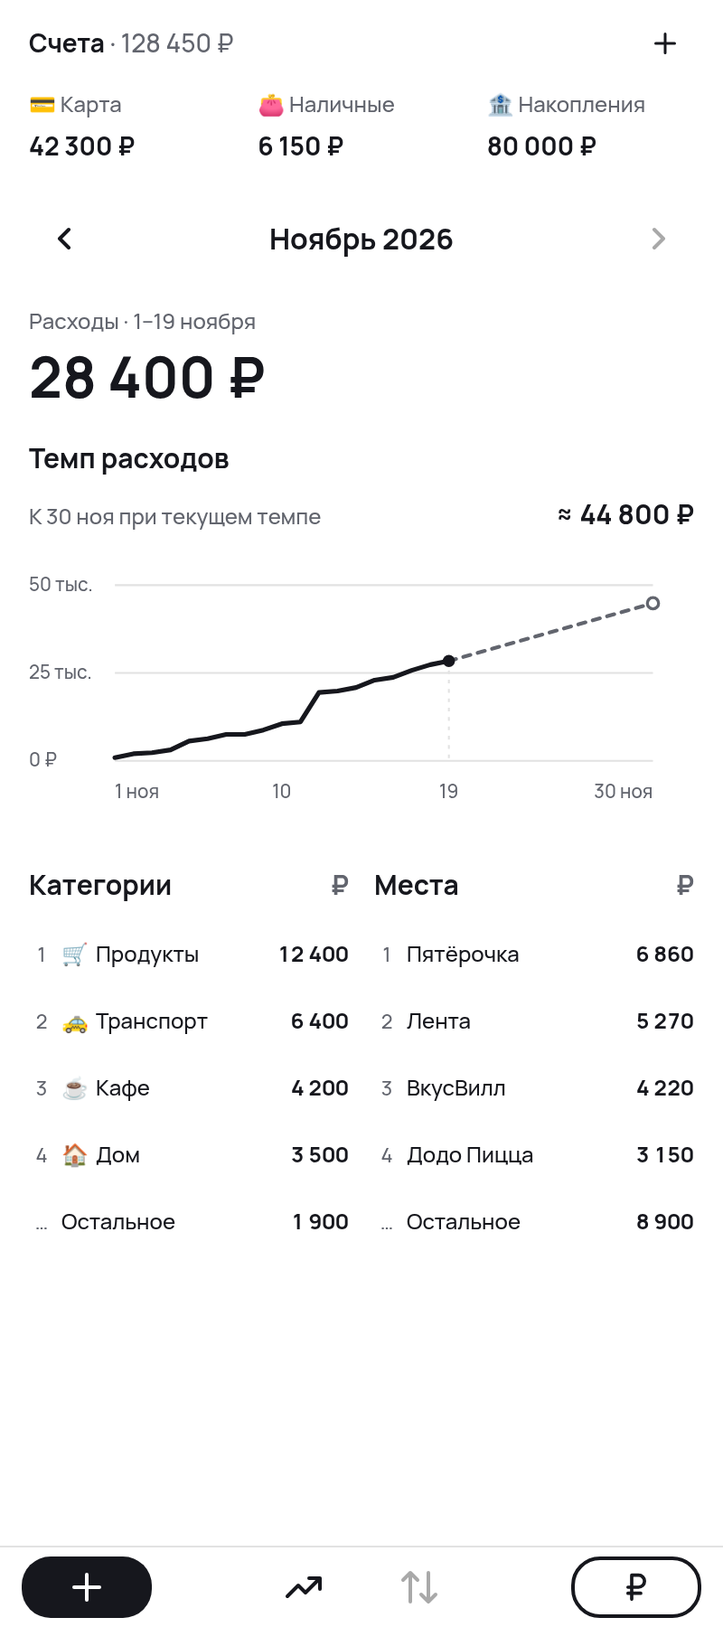
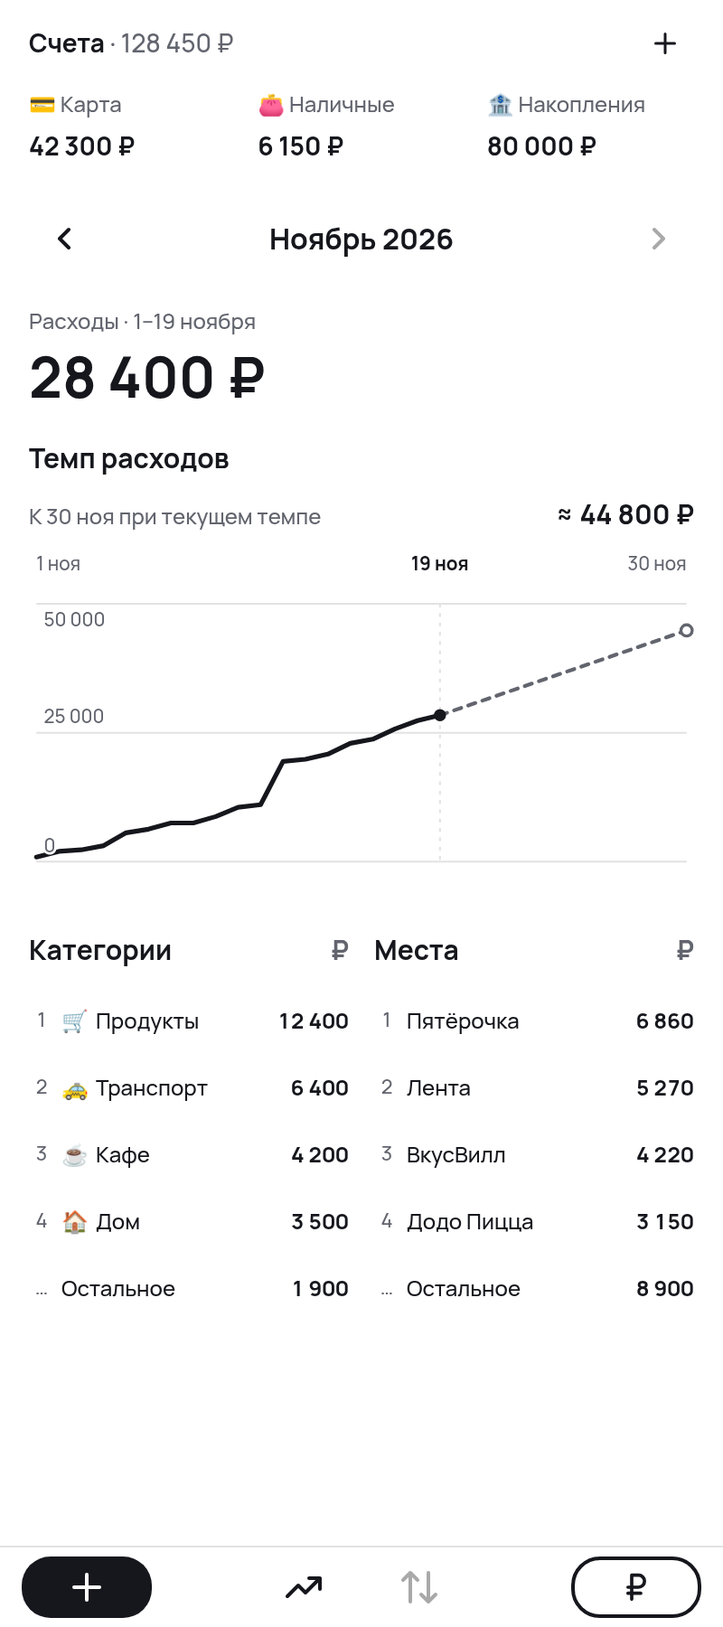
docs: preview adaptive spending chart scales (#267)

diff --git a/design/approved/267/screens.html b/design/approved/267/screens.html
@@ -13,6 +13,7 @@
   section{padding:16px 0}section:last-child{padding-bottom:0}
   .pace svg{display:block;width:100%;height:auto;fill:var(--ink)}.grid,.trend{fill:none;stroke:var(--divider)}
   .pace svg text{fill:var(--muted);font-size:10px}.trend{stroke:var(--ink);stroke-width:2.5;stroke-linecap:round;stroke-linejoin:round}
+  .pace .current-date{fill:var(--ink);font-weight:700}.value-tick{paint-order:stroke;stroke:var(--surface);stroke-width:2.5px}
   .estimate{display:flex;justify-content:space-between;align-items:baseline;gap:8px;margin:0 0 8px;color:var(--muted);font-size:12px}
   .estimate b{color:var(--ink);white-space:nowrap;font-size:15px}
   .forecast{fill:none;stroke:var(--muted);stroke-width:2;stroke-dasharray:4 4;stroke-linecap:round}
@@ -55,12 +56,11 @@
 <div class="screen" id="overview"><div class="month"><span aria-hidden="true">‹</span><h1>Ноябрь 2026</h1><span aria-hidden="true">›</span></div>
 <div class="total"><p>Расходы · 1–19 ноября</p><h2>28 400 ₽</h2></div>
     <section class="pace" data-days="30" data-actual-days="19"><h3>Темп расходов</h3><div class="estimate"><span>К 30 ноя при текущем темпе</span><b>≈ 44 800 ₽</b></div>
-    <svg viewBox="0 0 356 141" role="img" aria-label="С 1 по 19 число потрачено 28 400 ₽. Прогноз на 30 число — около 44 800 ₽.">
-      <path d="M46 114H334 M46 67H334 M46 20H334" class="grid"/><text x="0" y="117">0 ₽</text><text x="0" y="70">25 тыс.</text><text x="0" y="23">50 тыс.</text><line x1="224.76" y1="60.61" x2="224.76" y2="114" class="cutoff"/>
-        <line x1="224.76" y1="60.61" x2="334.00" y2="29.70" class="forecast"/>
-        <circle cx="334.00" cy="29.70" r="3" class="estimate-dot"/>
-      <polyline points="46.00,112.31 55.93,110.24 65.86,109.68 75.79,108.17 85.72,103.47 95.66,102.16 105.59,99.90 115.52,99.90 125.45,97.55 135.38,94.17 145.31,93.23 155.24,77.43 165.17,76.68 175.10,74.80 185.03,70.85 194.97,69.35 204.90,65.59 214.83,62.58 224.76,60.61" class="trend"/>
-      <circle cx="224.76" cy="60.61" r="3.25" class="actual-dot"/><text x="46.00" y="134" text-anchor="start">1 ноя</text><text x="135.38" y="134" text-anchor="middle">10</text><text x="224.76" y="134" text-anchor="middle">19</text><text x="334.00" y="134" text-anchor="end">30 ноя</text>
+    <svg viewBox="0 0 356 176" role="img" aria-label="С 1 по 19 число потрачено 28 400 ₽. Прогноз на 30 число — около 44 800 ₽.">
+      <path d="M4 30H352 M4 99H352 M4 168H352" class="grid"/><line x1="220.00" y1="30" x2="220.00" y2="168" class="cutoff"/><line x1="220.00" y1="89.62" x2="352.00" y2="44.24" class="forecast"/>
+        <circle cx="352.00" cy="44.24" r="3" class="estimate-dot"/>
+      <polyline points="4.00,165.52 16.00,162.48 28.00,161.65 40.00,159.44 52.00,152.54 64.00,150.61 76.00,147.30 88.00,147.30 100.00,143.85 112.00,138.88 124.00,137.50 136.00,114.32 148.00,113.21 160.00,110.45 172.00,104.66 184.00,102.45 196.00,96.93 208.00,92.51 220.00,89.62" class="trend"/>
+      <circle cx="220.00" cy="89.62" r="3.25" class="actual-dot"/><text class="value-tick" x="8" y="42">50 000</text><text class="value-tick" x="8" y="94">25 000</text><text class="value-tick" x="8" y="163">0</text><text class="date-tick" x="4.00" y="12" text-anchor="start">1 ноя</text><text class="current-date" x="220.00" y="12" text-anchor="middle">19 ноя</text><text class="date-tick" x="352.00" y="12" text-anchor="end">30 ноя</text>
     </svg></section><section class="rankings" aria-label="Распределение расходов за месяц">
       <div class="tables">
         <table class="categories">
@@ -86,10 +86,23 @@
       </div>
     </section></div>
 <div class="screen small" id="completed"><section class="pace" data-days="31" data-actual-days="31"><h3>Темп расходов</h3>
-    <svg viewBox="0 0 356 141" role="img" aria-label="С 1 по 31 число потрачено 36 200 ₽.">
-      <path d="M46 114H334 M46 67H334 M46 20H334" class="grid"/><text x="0" y="117">0 ₽</text><text x="0" y="70">20 тыс.</text><text x="0" y="23">40 тыс.</text>
-      <polyline points="46.00,111.89 55.60,109.30 65.20,108.59 74.80,106.72 84.40,100.84 94.00,99.19 103.60,96.38 113.20,96.38 122.80,93.44 132.40,89.21 142.00,88.03 151.60,68.29 161.20,67.35 170.80,65.00 180.40,60.07 190.00,58.19 199.60,53.49 209.20,49.73 218.80,47.26 228.40,45.73 238.00,44.20 247.60,42.68 257.20,41.15 266.80,39.62 276.40,38.09 286.00,36.57 295.60,35.04 305.20,33.51 314.80,31.98 324.40,30.46 334.00,28.93" class="trend"/>
-      <circle cx="334.00" cy="28.93" r="3.25" class="actual-dot"/><text x="46.00" y="134" text-anchor="start">1 окт</text><text x="132.40" y="134" text-anchor="middle">10</text><text x="334.00" y="134" text-anchor="end">31 окт</text>
+    <svg viewBox="0 0 356 176" role="img" aria-label="С 1 по 31 число потрачено 36 200 ₽.">
+      <path d="M4 30H352 M4 99H352 M4 168H352" class="grid"/>
+      <polyline points="4.00,164.90 15.60,161.10 27.20,160.06 38.80,157.31 50.40,148.68 62.00,146.26 73.60,142.12 85.20,142.12 96.80,137.81 108.40,131.60 120.00,129.88 131.60,100.90 143.20,99.52 154.80,96.07 166.40,88.82 178.00,86.06 189.60,79.16 201.20,73.64 212.80,70.02 224.40,67.78 236.00,65.53 247.60,63.29 259.20,61.05 270.80,58.81 282.40,56.56 294.00,54.32 305.60,52.08 317.20,49.84 328.80,47.59 340.40,45.35 352.00,43.11" class="trend"/>
+      <circle cx="352.00" cy="43.11" r="3.25" class="actual-dot"/><text class="value-tick" x="8" y="42">40 000</text><text class="value-tick" x="8" y="94">20 000</text><text class="value-tick" x="8" y="163">0</text><text class="date-tick" x="4.00" y="12" text-anchor="start">1 окт</text><text class="date-tick" x="352.00" y="12" text-anchor="end">31 окт</text>
+    </svg></section></div>
+<div class="screen" id="scale-examples"><section class="pace" data-days="30" data-actual-days="19"><h3>Темп расходов</h3><div class="estimate"><span>К 30 ноя при текущем темпе</span><b>≈ 89 700 ₽</b></div>
+    <svg viewBox="0 0 356 176" role="img" aria-label="С 1 по 19 число потрачено 56 800 ₽. Прогноз на 30 число — около 89 700 ₽.">
+      <path d="M4 30H352 M4 99H352 M4 168H352" class="grid"/><line x1="220.00" y1="30" x2="220.00" y2="168" class="cutoff"/><line x1="220.00" y1="89.62" x2="352.00" y2="44.24" class="forecast"/>
+        <circle cx="352.00" cy="44.24" r="3" class="estimate-dot"/>
+      <polyline points="4.00,165.52 16.00,162.48 28.00,161.65 40.00,159.44 52.00,152.54 64.00,150.61 76.00,147.30 88.00,147.30 100.00,143.85 112.00,138.88 124.00,137.50 136.00,114.32 148.00,113.21 160.00,110.45 172.00,104.66 184.00,102.45 196.00,96.93 208.00,92.51 220.00,89.62" class="trend"/>
+      <circle cx="220.00" cy="89.62" r="3.25" class="actual-dot"/><text class="value-tick" x="8" y="42">100 000</text><text class="value-tick" x="8" y="94">50 000</text><text class="value-tick" x="8" y="163">0</text><text class="date-tick" x="4.00" y="12" text-anchor="start">1 ноя</text><text class="current-date" x="220.00" y="12" text-anchor="middle">19 ноя</text><text class="date-tick" x="352.00" y="12" text-anchor="end">30 ноя</text>
+    </svg></section><section class="pace" data-days="30" data-actual-days="19"><h3>Темп расходов</h3><div class="estimate"><span>К 30 ноя при текущем темпе</span><b>≈ 134 500 ₽</b></div>
+    <svg viewBox="0 0 356 176" role="img" aria-label="С 1 по 19 число потрачено 85 200 ₽. Прогноз на 30 число — около 134 500 ₽.">
+      <path d="M4 30H352 M4 99H352 M4 168H352" class="grid"/><line x1="220.00" y1="30" x2="220.00" y2="168" class="cutoff"/><line x1="220.00" y1="89.62" x2="352.00" y2="44.24" class="forecast"/>
+        <circle cx="352.00" cy="44.24" r="3" class="estimate-dot"/>
+      <polyline points="4.00,165.52 16.00,162.48 28.00,161.65 40.00,159.44 52.00,152.54 64.00,150.61 76.00,147.30 88.00,147.30 100.00,143.85 112.00,138.88 124.00,137.50 136.00,114.32 148.00,113.21 160.00,110.45 172.00,104.66 184.00,102.45 196.00,96.93 208.00,92.51 220.00,89.62" class="trend"/>
+      <circle cx="220.00" cy="89.62" r="3.25" class="actual-dot"/><text class="value-tick" x="8" y="42">150 000</text><text class="value-tick" x="8" y="94">75 000</text><text class="value-tick" x="8" y="163">0</text><text class="date-tick" x="4.00" y="12" text-anchor="start">1 ноя</text><text class="current-date" x="220.00" y="12" text-anchor="middle">19 ноя</text><text class="date-tick" x="352.00" y="12" text-anchor="end">30 ноя</text>
     </svg></section></div>
 <div class="finance" id="finance">
       <div class="finance-body">
@@ -100,12 +113,11 @@
           <h1>Ноябрь 2026</h1><button aria-label="Следующий месяц" disabled><svg viewBox="0 0 24 24" aria-hidden="true"><path d="m14 7-5 5 5 5" fill="none" stroke="currentColor" stroke-width="2" stroke-linecap="round" stroke-linejoin="round"/></svg></button></div>
         <div class="total"><p>Расходы · 1–19 ноября</p><h2>28 400 ₽</h2></div>
     <section class="pace" data-days="30" data-actual-days="19"><h3>Темп расходов</h3><div class="estimate"><span>К 30 ноя при текущем темпе</span><b>≈ 44 800 ₽</b></div>
-    <svg viewBox="0 0 356 141" role="img" aria-label="С 1 по 19 число потрачено 28 400 ₽. Прогноз на 30 число — около 44 800 ₽.">
-      <path d="M46 114H334 M46 67H334 M46 20H334" class="grid"/><text x="0" y="117">0 ₽</text><text x="0" y="70">25 тыс.</text><text x="0" y="23">50 тыс.</text><line x1="224.76" y1="60.61" x2="224.76" y2="114" class="cutoff"/>
-        <line x1="224.76" y1="60.61" x2="334.00" y2="29.70" class="forecast"/>
-        <circle cx="334.00" cy="29.70" r="3" class="estimate-dot"/>
-      <polyline points="46.00,112.31 55.93,110.24 65.86,109.68 75.79,108.17 85.72,103.47 95.66,102.16 105.59,99.90 115.52,99.90 125.45,97.55 135.38,94.17 145.31,93.23 155.24,77.43 165.17,76.68 175.10,74.80 185.03,70.85 194.97,69.35 204.90,65.59 214.83,62.58 224.76,60.61" class="trend"/>
-      <circle cx="224.76" cy="60.61" r="3.25" class="actual-dot"/><text x="46.00" y="134" text-anchor="start">1 ноя</text><text x="135.38" y="134" text-anchor="middle">10</text><text x="224.76" y="134" text-anchor="middle">19</text><text x="334.00" y="134" text-anchor="end">30 ноя</text>
+    <svg viewBox="0 0 356 176" role="img" aria-label="С 1 по 19 число потрачено 28 400 ₽. Прогноз на 30 число — около 44 800 ₽.">
+      <path d="M4 30H352 M4 99H352 M4 168H352" class="grid"/><line x1="220.00" y1="30" x2="220.00" y2="168" class="cutoff"/><line x1="220.00" y1="89.62" x2="352.00" y2="44.24" class="forecast"/>
+        <circle cx="352.00" cy="44.24" r="3" class="estimate-dot"/>
+      <polyline points="4.00,165.52 16.00,162.48 28.00,161.65 40.00,159.44 52.00,152.54 64.00,150.61 76.00,147.30 88.00,147.30 100.00,143.85 112.00,138.88 124.00,137.50 136.00,114.32 148.00,113.21 160.00,110.45 172.00,104.66 184.00,102.45 196.00,96.93 208.00,92.51 220.00,89.62" class="trend"/>
+      <circle cx="220.00" cy="89.62" r="3.25" class="actual-dot"/><text class="value-tick" x="8" y="42">50 000</text><text class="value-tick" x="8" y="94">25 000</text><text class="value-tick" x="8" y="163">0</text><text class="date-tick" x="4.00" y="12" text-anchor="start">1 ноя</text><text class="current-date" x="220.00" y="12" text-anchor="middle">19 ноя</text><text class="date-tick" x="352.00" y="12" text-anchor="end">30 ноя</text>
     </svg></section><section class="rankings" aria-label="Распределение расходов за месяц">
       <div class="tables">
         <table class="categories">

diff --git a/design/approved/267/render.js b/design/approved/267/render.js
@@ -31,21 +31,42 @@ const path = require('node:path');
     assert.equal(await pace.getAttribute('data-days'), '30');
     assert.equal(await pace.getAttribute('data-actual-days'), '19');
     assert.match(await pace.locator('.estimate').innerText(), /44\s*800\s*₽/);
+    assert.equal(await pace.locator('.current-date').textContent(), '19 ноя');
     const coordinates = await pace.evaluate(panel => {
       const line = panel.querySelector('.trend');
       const end = line.points.getItem(line.points.numberOfItems - 1);
       const forecast = panel.querySelector('.forecast');
+      const lastDate = panel.querySelector('.date-tick:last-child');
+      const cutoff = panel.querySelector('.cutoff');
+      const currentDate = panel.querySelector('.current-date');
       return { from: Number(forecast.getAttribute('x1')), to: Number(forecast.getAttribute('x2')),
-        actualX: end.x, actualDays: line.points.numberOfItems, dash: getComputedStyle(forecast).strokeDasharray };
+        actualX: end.x, actualDays: line.points.numberOfItems, dash: getComputedStyle(forecast).strokeDasharray,
+        lastDateX: Number(lastDate.getAttribute('x')), todayX: Number(currentDate.getAttribute('x')),
+        cutoffX: Number(cutoff.getAttribute('x1')) };
     });
     assert.equal(coordinates.actualDays, 19);
     assert(Math.abs(coordinates.from - coordinates.actualX) < 0.01);
-    assert.equal(coordinates.to, 334);
+    assert.equal(coordinates.to, coordinates.lastDateX);
+    assert.equal(coordinates.from, coordinates.todayX);
+    assert.equal(coordinates.cutoffX, coordinates.todayX);
     assert.notEqual(coordinates.dash, 'none');
     const completed = page.locator('#completed .pace');
     assert.equal(await completed.getAttribute('data-days'), '31');
     assert.equal(await completed.getAttribute('data-actual-days'), '31');
     assert.equal(await completed.locator('.forecast').count(), 0);
+    const scales = page.locator('#scale-examples');
+    const charts = [pace, ...await scales.locator('.pace').all()];
+    const limits = [50000, 100000, 150000];
+    assert.equal(charts.length, limits.length);
+    for (const [index, chart] of charts.entries()) {
+      const limit = limits[index];
+      const labels = await chart.locator('.value-tick').allTextContents();
+      assert.deepEqual(labels.map(label => Number(label.replace(/\s/g, ''))), [limit, limit / 2, 0]);
+      const pathData = await chart.locator('.grid').getAttribute('d');
+      const guides = [...pathData.matchAll(/M\d+ (\d+)H\d+/g)].map(match => Number(match[1]));
+      assert.deepEqual(guides, [30, 99, 168]);
+    }
+    await scales.screenshot({ path: path.join(__dirname, 'chart-scales.png') });
     await overview.screenshot({ path: path.join(__dirname, 'month.png') });
     await overview.locator('.rankings').screenshot({ path: path.join(__dirname, 'rankings.png') });
     await page.setViewportSize({ width: 320, height: 1050 });

diff --git a/design/approved/267/screens.py b/design/approved/267/screens.py
@@ -2,7 +2,7 @@
 from calendar import monthrange
 from html import escape
 from itertools import accumulate
-from math import ceil
+from math import floor, log10
 from pathlib import Path
 
 HERE = Path(__file__).resolve().parent
@@ -29,31 +29,48 @@ def money(amount):
     return digits(amount) + '\u00a0₽'
 
 
+def scale_ceiling(amount):
+    amount = max(1000, amount)
+    magnitude = 10 ** floor(log10(amount))
+    steps = (1, 1.5, 2, 2.5, 3, 4, 5, 6, 8, 10)
+    return next(int(step * magnitude) for step in steps if step * magnitude >= amount)
+
+
 def pace(amounts, year, month, month_short):
     last_day = monthrange(year, month)[1]
     as_of = len(amounts)
     assert 1 <= as_of <= last_day
     actual = sum(amounts)
-    estimate = actual * last_day / as_of if actual and as_of < last_day else None
-    ceiling = max(1000, ceil((estimate if estimate is not None else actual) / 10000) * 10000)
+    partial = as_of < last_day
+    estimate = actual * last_day / as_of if actual and partial else None
+    ceiling = scale_ceiling(estimate if estimate is not None else actual)
+    left, right = 4, 352
+    top, bottom = 30, 168
 
     def x(day):
-        return 46 + (day - 1) * 288 / (last_day - 1)
+        return left + (day - 1) * (right - left) / (last_day - 1)
 
     def y(value):
-        return 114 - 94 * value / ceiling
+        return bottom - (bottom - top) * value / ceiling
 
     coords = ' '.join(f'{x(day):.2f},{y(value):.2f}' for day, value in enumerate(accumulate(amounts), start=1))
-    axis = [0, ceiling // 2, ceiling]
-    grid = ' '.join(f'M46 {y(value):g}H334' for value in axis)
-    value_ticks = ''.join(f'<text x="0" y="{y(value)+3:g}">{value/1000:g} тыс.</text>' if value else
-                          '<text x="0" y="117">0 ₽</text>' for value in axis)
-    day_ticks = {1: ('1 ' + month_short, 'start'), 10: ('10', 'middle'), last_day: (str(last_day) + ' ' + month_short, 'end')}
-    if estimate is not None and 4 <= as_of <= last_day - 3:
-        day_ticks = {d: tick for d, tick in day_ticks.items() if d in (1, last_day) or abs(d - as_of) >= 4}
-        day_ticks[as_of] = (str(as_of), 'middle')
-    ticks = ''.join(f'<text x="{x(day):.2f}" y="134" text-anchor="{align}">{label}</text>'
-                    for day, (label, align) in sorted(day_ticks.items()))
+    axis = [ceiling, ceiling // 2, 0]
+    grid = ' '.join(f'M{left} {y(value):g}H{right}' for value in axis)
+    value_ticks = ''.join(f'<text class="value-tick" x="{left + 4}" y="{y(value) + offset:g}">{digits(value)}</text>'
+                          for value, offset in zip(axis, [12, -5, -5]))
+    date_ticks = {1: ('start', 12), last_day: ('end', 12)}
+    if partial and as_of != 1:
+        # У краёв дата факта переносится ниже, чтобы подписи не пересекались.
+        align = 'start' if as_of <= 4 else 'end' if as_of >= last_day - 3 else 'middle'
+        date_ticks[as_of] = (align, 12 if align == 'middle' else 24)
+    dates = ''.join(
+        f'<text class="{"current-date" if partial and day == as_of else "date-tick"}" '
+        f'x="{x(day):.2f}" y="{row}" text-anchor="{align}">{day} {month_short}</text>'
+        for day, (align, row) in sorted(date_ticks.items())
+    )
+    cutoff = ''
+    if partial:
+        cutoff = f'<line x1="{x(as_of):.2f}" y1="{top}" x2="{x(as_of):.2f}" y2="{bottom}" class="cutoff"/>'
     forecast = ''
     headline = ''
     description = f'С 1 по {as_of} число потрачено {money(actual)}.'
@@ -61,14 +78,13 @@ def pace(amounts, year, month, month_short):
         projected = money(round(estimate / 100) * 100)
         description += f' Прогноз на {last_day} число — около {projected}.'
         headline = f'<div class="estimate"><span>К {last_day} {month_short} при текущем темпе</span><b>≈ {projected}</b></div>'
-        forecast = f'''<line x1="{x(as_of):.2f}" y1="{y(actual):.2f}" x2="{x(as_of):.2f}" y2="114" class="cutoff"/>
-        <line x1="{x(as_of):.2f}" y1="{y(actual):.2f}" x2="{x(last_day):.2f}" y2="{y(estimate):.2f}" class="forecast"/>
+        forecast = f'''<line x1="{x(as_of):.2f}" y1="{y(actual):.2f}" x2="{x(last_day):.2f}" y2="{y(estimate):.2f}" class="forecast"/>
         <circle cx="{x(last_day):.2f}" cy="{y(estimate):.2f}" r="3" class="estimate-dot"/>'''
     return f'''<section class="pace" data-days="{last_day}" data-actual-days="{as_of}"><h3>Темп расходов</h3>{headline}
-    <svg viewBox="0 0 356 141" role="img" aria-label="{description}">
-      <path d="{grid}" class="grid"/>{value_ticks}{forecast}
+    <svg viewBox="0 0 356 176" role="img" aria-label="{description}">
+      <path d="{grid}" class="grid"/>{cutoff}{forecast}
       <polyline points="{coords}" class="trend"/>
-      <circle cx="{x(as_of):.2f}" cy="{y(actual):.2f}" r="3.25" class="actual-dot"/>{ticks}
+      <circle cx="{x(as_of):.2f}" cy="{y(actual):.2f}" r="3.25" class="actual-dot"/>{value_ticks}{dates}
     </svg></section>'''
 
 
@@ -144,6 +160,7 @@ CSS = design['fonts'] + f''':root{{--ink:{color('textPrimary')};--muted:{color('
   section{padding:16px 0}section:last-child{padding-bottom:0}
   .pace svg{display:block;width:100%;height:auto;fill:var(--ink)}.grid,.trend{fill:none;stroke:var(--divider)}
   .pace svg text{fill:var(--muted);font-size:10px}.trend{stroke:var(--ink);stroke-width:2.5;stroke-linecap:round;stroke-linejoin:round}
+  .pace .current-date{fill:var(--ink);font-weight:700}.value-tick{paint-order:stroke;stroke:var(--surface);stroke-width:2.5px}
   .estimate{display:flex;justify-content:space-between;align-items:baseline;gap:8px;margin:0 0 8px;color:var(--muted);font-size:12px}
   .estimate b{color:var(--ink);white-space:nowrap;font-size:15px}
   .forecast{fill:none;stroke:var(--muted);stroke-width:2;stroke-dasharray:4 4;stroke-linecap:round}
@@ -189,5 +206,6 @@ document = f'''<!doctype html><html lang="ru"><meta charset="utf-8"><meta name="
 {month_content()}</div>
 <div class="screen small" id="missing">{rankings(named_places=[])}</div>
 <div class="screen small" id="completed">{pace([*daily, *([650] * 12)], 2026, 10, 'окт')}</div>
+<div class="screen" id="scale-examples">{''.join(pace([amount * factor for amount in daily], 2026, 11, 'ноя') for factor in (2, 3))}</div>
 {finance_home()}</main></html>'''
 (HERE / 'screens.html').write_text(document)

diff --git a/design/approved/267/README.md b/design/approved/267/README.md
@@ -4,10 +4,11 @@
 
 - [Первый экран «Финансы» целиком](finance-home.png). Счета, выбор месяца и аналитика на общем белом фоне. Блоки контента разделены отступами. Вкладка «Аналитика» выбрана.
 - [Аналитика месяца крупнее](month.png) с тремя блоками на вымышленных суммах.
+- [Шкалы графика до 100 000 и 150 000 ₽](chart-scales.png). Даты над графиком, пунктир под сегодняшней датой, средняя отметка на половине выбранной шкалы.
 - [Две таблицы крупнее](rankings.png) · [узкий экран 320 px](rankings-narrow.png). В каждой четыре пронумерованных лидера и строка «Остальное».
 - [Операции без указанного места](without-places.png). В правой таблице только «Остальное» с полной суммой.
 - [HTML](screens.html) · [генератор](screens.py) · [рендер](render.js).
 
 Аналитика расположена под счетами и переключателем месяца. Для оформления использован плоский стиль [«Недели»](../../../app/screenshots/week_light.png), для порядка элементов — [снимок «Финансов»](../../../app/screenshots/finance_analytics_light.png). В обеих таблицах номер, название и сумма. У категорий есть иконки. Расходы без места входят в «Остальное» справа. Знак ₽ указан над каждой колонкой сумм. Пунктир продолжается от сегодняшней суммы до расчётной суммы на конец месяца. Названия магазинов приведены для примера.
 
-Воспроизведение из корня: `python3 design/approved/267/screens.py && node design/approved/267/render.js`. Сверены суммы, положение точки факта и конца прогноза, прогноз 44 800 ₽, отсутствие прогноза в завершённом месяце, сумма строки «Остальное» и расположение таблиц рядом без обрезки на 320 px. Это проверка макета. Для изменения Android-кода нужна команда «Делай код».
+Воспроизведение из корня: `python3 design/approved/267/screens.py && node design/approved/267/render.js`. Сверены суммы, положение точки факта и конца прогноза, горизонтали для шкал 50 000, 100 000 и 150 000 ₽, отсутствие прогноза в завершённом месяце, сумма строки «Остальное» и расположение таблиц рядом без обрезки на 320 px. Это проверка макета. Для изменения Android-кода нужна команда «Делай код».

diff --git a/design/README.md b/design/README.md
@@ -126,4 +126,4 @@ PM выбрал А для недели, предстоящих (приложен
 
 ## Аналитика расходов внутри месяца — #267
 
-[Макет и требования](approved/267/README.md) · [Первый экран «Финансы»](approved/267/finance-home.png) · [Категории и места рядом](approved/267/rankings.png). Счета и аналитика на общем белом фоне в плоском стиле «Недели». Блоки контента разделены отступами. Фиксированная шкала всего месяца, факт до сегодня и прогноз до последней даты. Категории и места стоят рядом в одинаковых таблицах из четырёх пронумерованных лидеров и строки «Остальное». Расходы без места входят в «Остальное» справа. Знак ₽ стоит над каждой колонкой сумм. Компоновка и расчёт прогноза на согласовании.
+[Макет и требования](approved/267/README.md) · [Первый экран «Финансы»](approved/267/finance-home.png) · [Примеры шкал графика](approved/267/chart-scales.png) · [Категории и места рядом](approved/267/rankings.png). Счета и аналитика на общем белом фоне в плоском стиле «Недели». Блоки контента разделены отступами. Даты всего месяца над графиком, факт до сегодня и прогноз до последней даты. Денежная шкала подстраивается под прогноз, средняя отметка проходит на половине её высоты. Категории и места стоят рядом в одинаковых таблицах из четырёх пронумерованных лидеров и строки «Остальное». Расходы без места входят в «Остальное» справа. Знак ₽ стоит над каждой колонкой сумм. Компоновка и расчёт прогноза на согласовании.

diff --git a/design/approved/267/requirements.md b/design/approved/267/requirements.md
@@ -9,5 +9,6 @@
 5. В правой таблице «Остальное» включает расходы по оставшимся местам и расходы без указанного места. Если ни в одной операции место не указано, в правой таблице одна строка «Остальное» с полной суммой.
 6. Знак ₽ стоит над колонкой сумм каждой таблицы. В ячейках только числа. Сумма строк каждой таблицы равна фактическим расходам месяца.
 7. Первый экран «Финансы» оформлен в плоском стиле «Недели». Счета, переключатель месяца, итог, график и обе таблицы расположены на общем белом фоне. Блоки контента разделены отступами. «+» у счетов и стрелки месяца показаны значками без подложки. Нижняя панель использует общий стиль модулей.
+8. Даты начала и конца месяца показаны над графиком. В текущем месяце сегодняшняя дата выделена, под ней проходит вертикальный пунктир. Три горизонтали отмечают 0, половину шкалы и её верхнюю границу. Граница округляется вверх по прогнозу, а в завершённом месяце берётся по факту. Например, для прогноза 134 500 ₽ верхняя отметка 150 000, средняя 75 000. Для пустого графика верхняя отметка 1 000.
 
 Рабочая ветка codex/finance-month-insights от main 5992db2. Детали оформления и формула прогноза на согласовании. После показа макета для Android-реализации нужна отдельная команда «Делай код».
